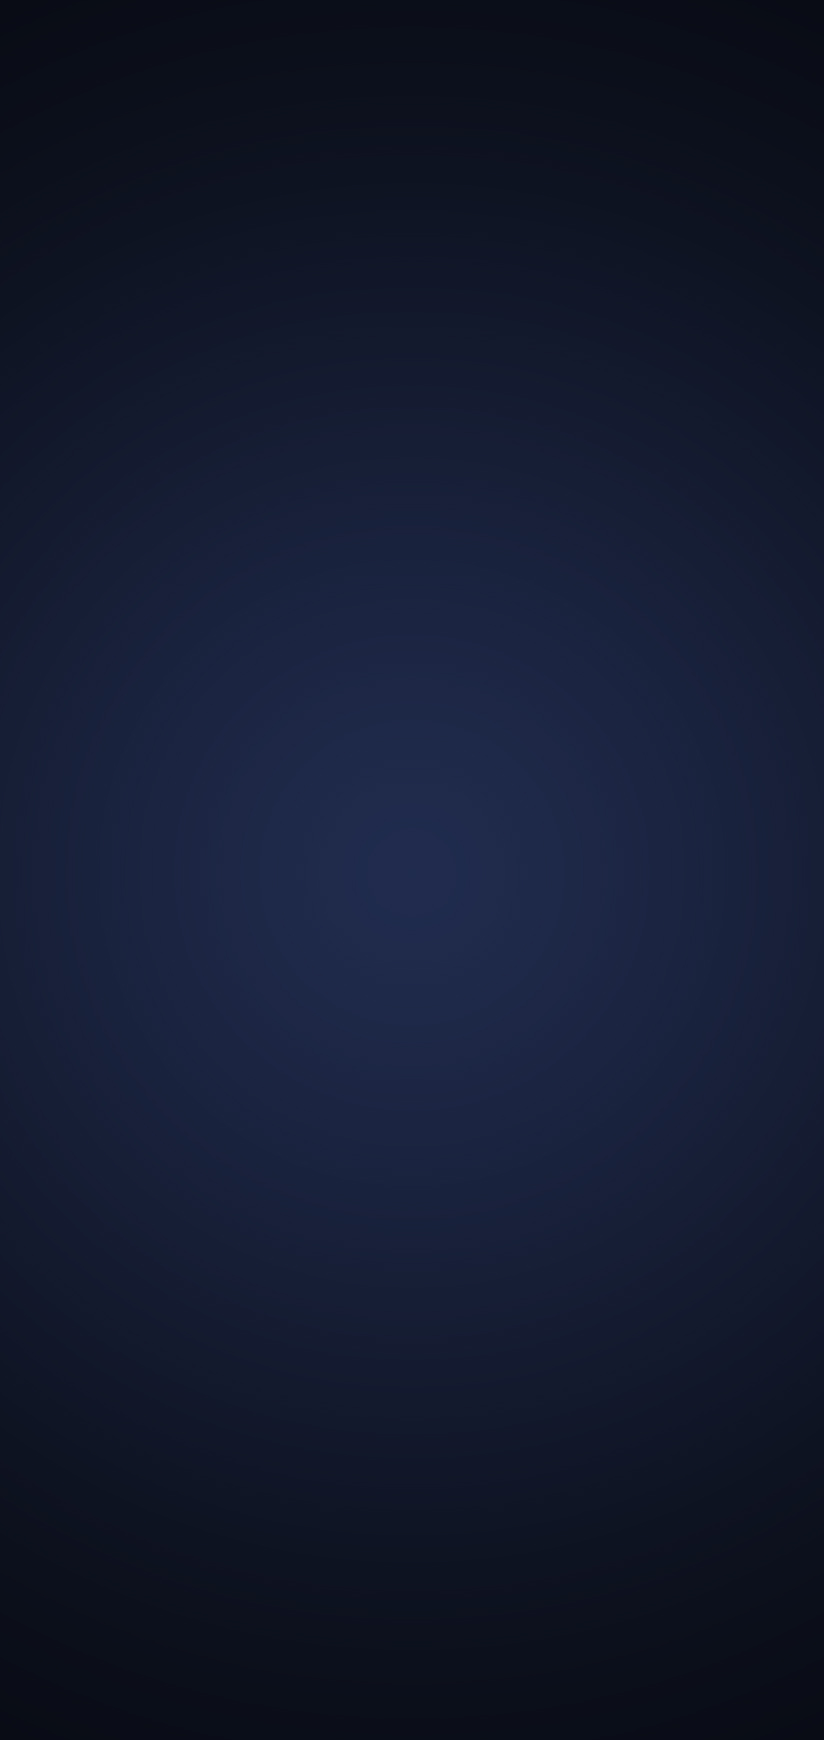
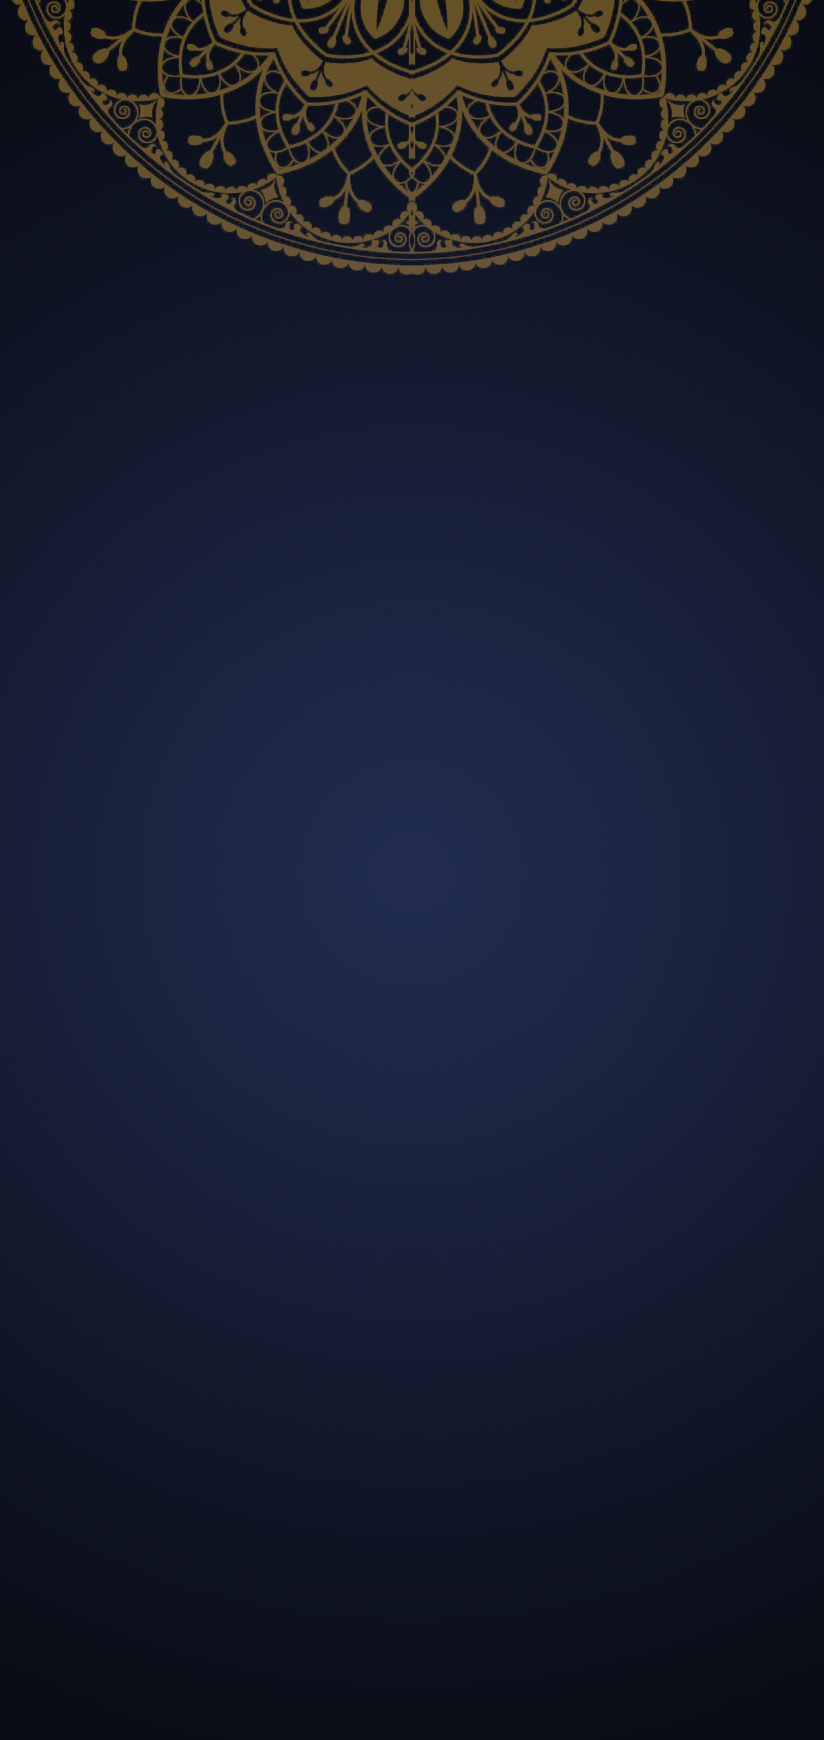
+ edit of my theme

Changed region(s): [[0.0, 0.0, 1.0, 0.1552]]

diff --git a/lib/config/theme/my_theme.dart b/lib/config/theme/my_theme.dart
@@ -4,7 +4,12 @@ import 'package:islami_app/core/utils/colors_manager.dart';
 class MyTheme {
   static bool isDarkEnabled = true;
   static final ThemeData lightTheme = ThemeData(
-    colorScheme: ColorScheme.fromSeed(seedColor: ColorsManager.goldColor),
+    iconTheme: IconThemeData(color: ColorsManager.goldColor, size: 30),
+    colorScheme: ColorScheme.fromSeed(
+      seedColor: ColorsManager.goldColor,
+      primary: ColorsManager.goldColor,
+      onSecondary: ColorsManager.goldColor,
+    ),
     appBarTheme: const AppBarTheme(
       iconTheme: IconThemeData(
         color: Colors.black,
@@ -50,6 +55,8 @@ class MyTheme {
           fontSize: 18,
           fontWeight: FontWeight.w700,
           color: ColorsManager.goldColor),
+      displayMedium: TextStyle(
+          fontSize: 18, fontWeight: FontWeight.w700, color: Colors.black),
     ),
     bottomNavigationBarTheme: const BottomNavigationBarThemeData(
       selectedItemColor: Colors.black,
@@ -64,6 +71,12 @@ class MyTheme {
   );
 
   static final ThemeData darkTheme = ThemeData(
+    iconTheme: IconThemeData(color: ColorsManager.yellowColor, size: 30),
+    colorScheme: ColorScheme.fromSeed(
+      seedColor: ColorsManager.yellowColor,
+      primary: ColorsManager.yellowColor,
+      onSecondary: Colors.white,
+    ),
     appBarTheme: const AppBarTheme(
       iconTheme: IconThemeData(
         color: Colors.white,
@@ -91,13 +104,20 @@ class MyTheme {
       ),
     ),
     textTheme: const TextTheme(
+      bodyLarge: TextStyle(
+        color: ColorsManager.yellowColor,
+        fontWeight: FontWeight.w600,
+        fontSize: 25,
+      ),
       titleSmall: TextStyle(
         fontWeight: FontWeight.w400,
         fontSize: 25,
         color: Colors.white,
       ),
       displaySmall: TextStyle(
-          fontSize: 14, fontWeight: FontWeight.w400, color: Colors.black),
+          fontSize: 14,
+          fontWeight: FontWeight.w400,
+          color: ColorsManager.yellowColor),
       labelSmall: TextStyle(
           fontWeight: FontWeight.w700,
           fontSize: 16,
@@ -106,6 +126,8 @@ class MyTheme {
           fontSize: 18,
           fontWeight: FontWeight.w700,
           color: ColorsManager.yellowColor),
+      displayMedium: TextStyle(
+          fontSize: 18, fontWeight: FontWeight.w700, color: Colors.white),
     ),
     bottomNavigationBarTheme: const BottomNavigationBarThemeData(
       selectedItemColor: ColorsManager.yellowColor,

diff --git a/lib/presentation/home/tabs/settings_tab/settings_tab.dart b/lib/presentation/home/tabs/settings_tab/settings_tab.dart
@@ -27,8 +27,8 @@ class SettingsTab extends StatelessWidget {
             child: Container(
               padding: EdgeInsets.symmetric(vertical: 8, horizontal: 4),
               decoration: BoxDecoration(
-                border:
-                    Border.all(color: Theme.of(context).primaryColor, width: 2),
+                border: Border.all(
+                    color: Theme.of(context).colorScheme.onSecondary, width: 2),
                 borderRadius: BorderRadius.circular(12),
               ),
     child: Text(AppLocalizations.of(context)!.light,
@@ -52,8 +52,8 @@ class SettingsTab extends StatelessWidget {
             child: Container(
               padding: EdgeInsets.symmetric(vertical: 8, horizontal: 4),
               decoration: BoxDecoration(
-                border:
-                    Border.all(color: Theme.of(context).primaryColor, width: 2),
+                border: Border.all(
+                    color: Theme.of(context).colorScheme.onSecondary, width: 2),
                 borderRadius: BorderRadius.circular(12),
               ),
     child: Text(AppLocalizations.of(context)!.english,

diff --git a/lib/presentation/home/home_screen.dart b/lib/presentation/home/home_screen.dart
@@ -7,6 +7,8 @@ import 'package:islami_app/presentation/home/tabs/radio_tab/radio_tab.dart';
 import 'package:islami_app/presentation/home/tabs/sebha_tab/sebha_tab.dart';
 import 'package:islami_app/presentation/home/tabs/settings_tab/settings_tab.dart';
 
+import '../../config/theme/my_theme.dart';
+
 class HomeScreen extends StatefulWidget {
   HomeScreen({super.key});
 
@@ -28,9 +30,11 @@ class _HomeScreenState extends State<HomeScreen> {
   @override
   Widget build(BuildContext context) {
     return Container(
-      decoration: const BoxDecoration(
+      decoration: BoxDecoration(
         image: DecorationImage(
-          image: AssetImage(AssetsManager.lightMainBg),
+          image: AssetImage(MyTheme.isDarkEnabled
+              ? AssetsManager.darkMainBg
+              : AssetsManager.lightMainBg),
           fit: BoxFit.fill,
         ),
       ),

diff --git a/lib/presentation/home/tabs/settings_tab/widgets/language_bottom_sheet.dart b/lib/presentation/home/tabs/settings_tab/widgets/language_bottom_sheet.dart
@@ -28,9 +28,7 @@ class LanguageBottomSheet extends StatelessWidget {
           Text(
             AppLocalizations.of(context)!.arabic,
             style: Theme.of(context)
-                .textTheme
-                .bodyMedium
-                ?.copyWith(color: Colors.black),
+                .textTheme.displayMedium,
           ),
         ],
       ),

diff --git a/lib/presentation/home/tabs/settings_tab/widgets/theme_bottom_sheet.dart b/lib/presentation/home/tabs/settings_tab/widgets/theme_bottom_sheet.dart
@@ -28,9 +28,7 @@ class ThemeBottomSheet extends StatelessWidget {
           Text(
             AppLocalizations.of(context)!.dark,
             style: Theme.of(context)
-                .textTheme
-                .bodyMedium
-                ?.copyWith(color: Colors.black),
+                .textTheme.displayMedium,
           ),
         ],
       ),

diff --git a/lib/my_app/my_app.dart b/lib/my_app/my_app.dart
@@ -34,6 +34,7 @@ class MyApp extends StatelessWidget {
       },
       initialRoute: RoutesManager.splashRoute,
       theme: MyTheme.lightTheme,
+      darkTheme: MyTheme.darkTheme,
       themeMode: ThemeMode.dark,
     );
   }
